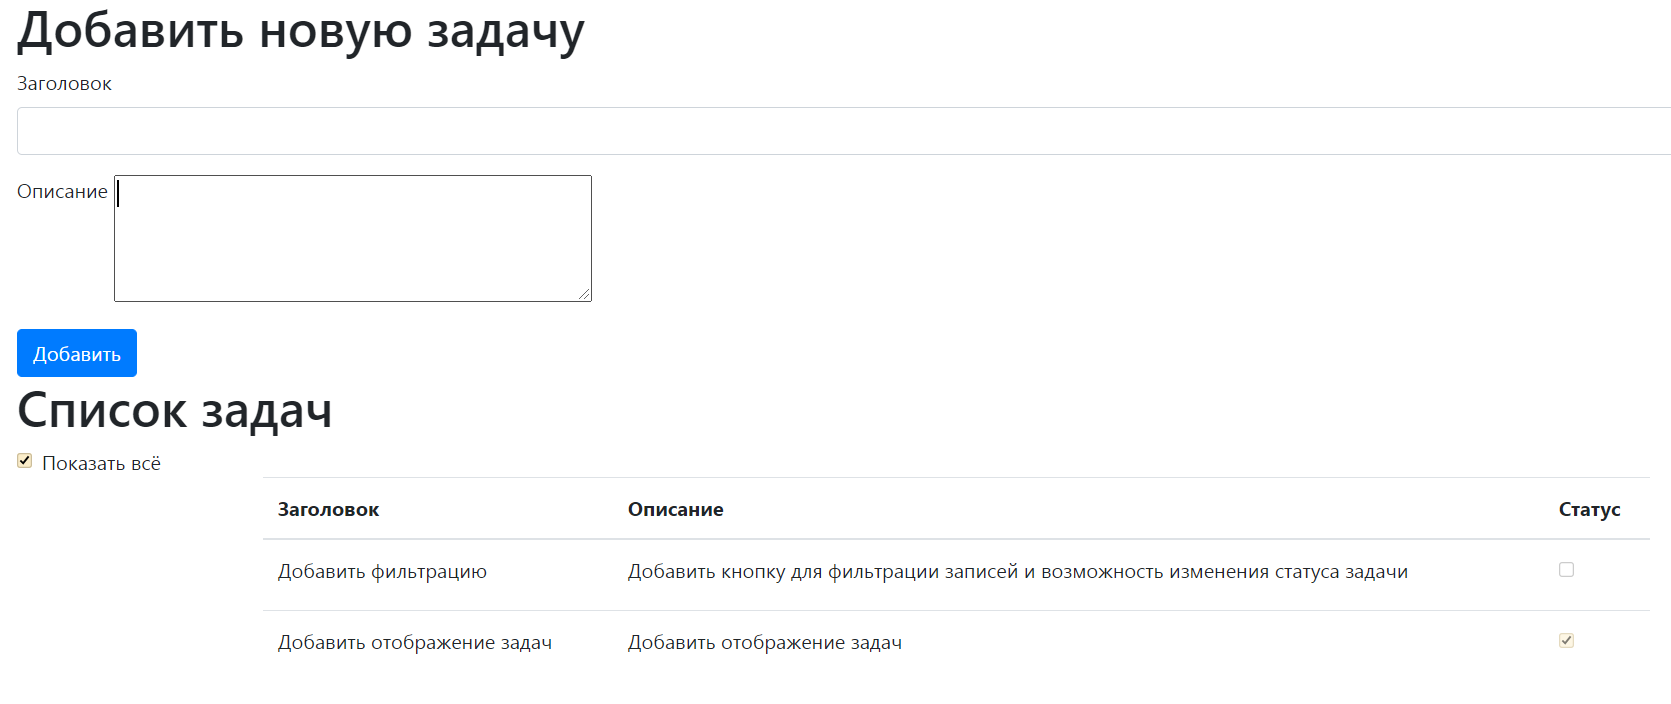
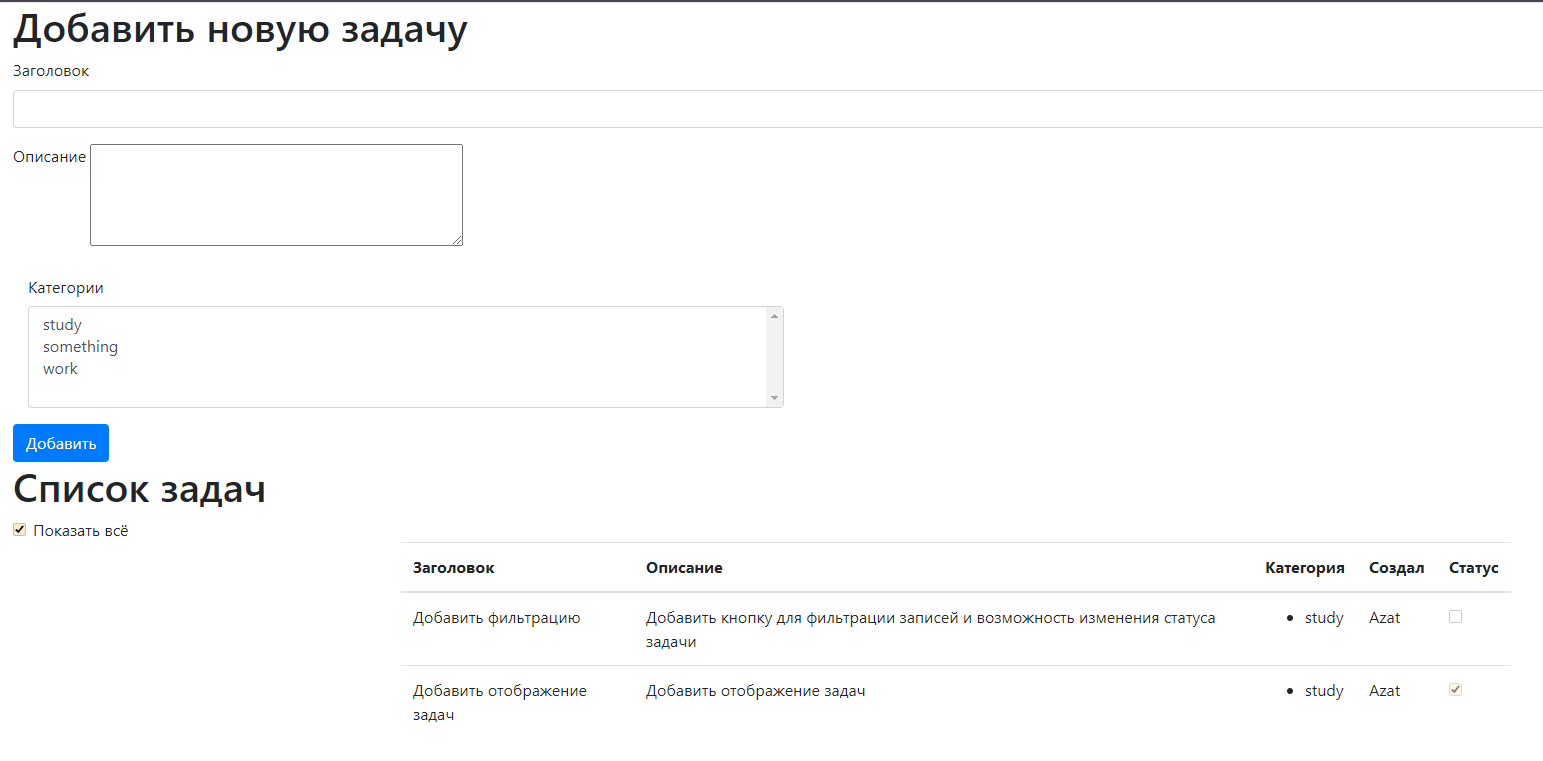
обновил readme

diff --git a/README.md b/README.md
@@ -6,11 +6,13 @@
 
 ![ScreenShot](images/task1.PNG)
 
-Добавление новой задачи
+Добавление новой задачи: при добавлении новой задачи необходимо указать заголовок, 
+описание и выбрать одну или несколько категорий
 
 ![ScreenShot](images/task2.PNG)
 
-После нажатия кнопки добавить:
+После нажатия кнопки добавить созданная задача добавляется в список,
+в котором также указывается, кто создал задачу
 
 ![ScreenShot](images/task3.PNG)
 
